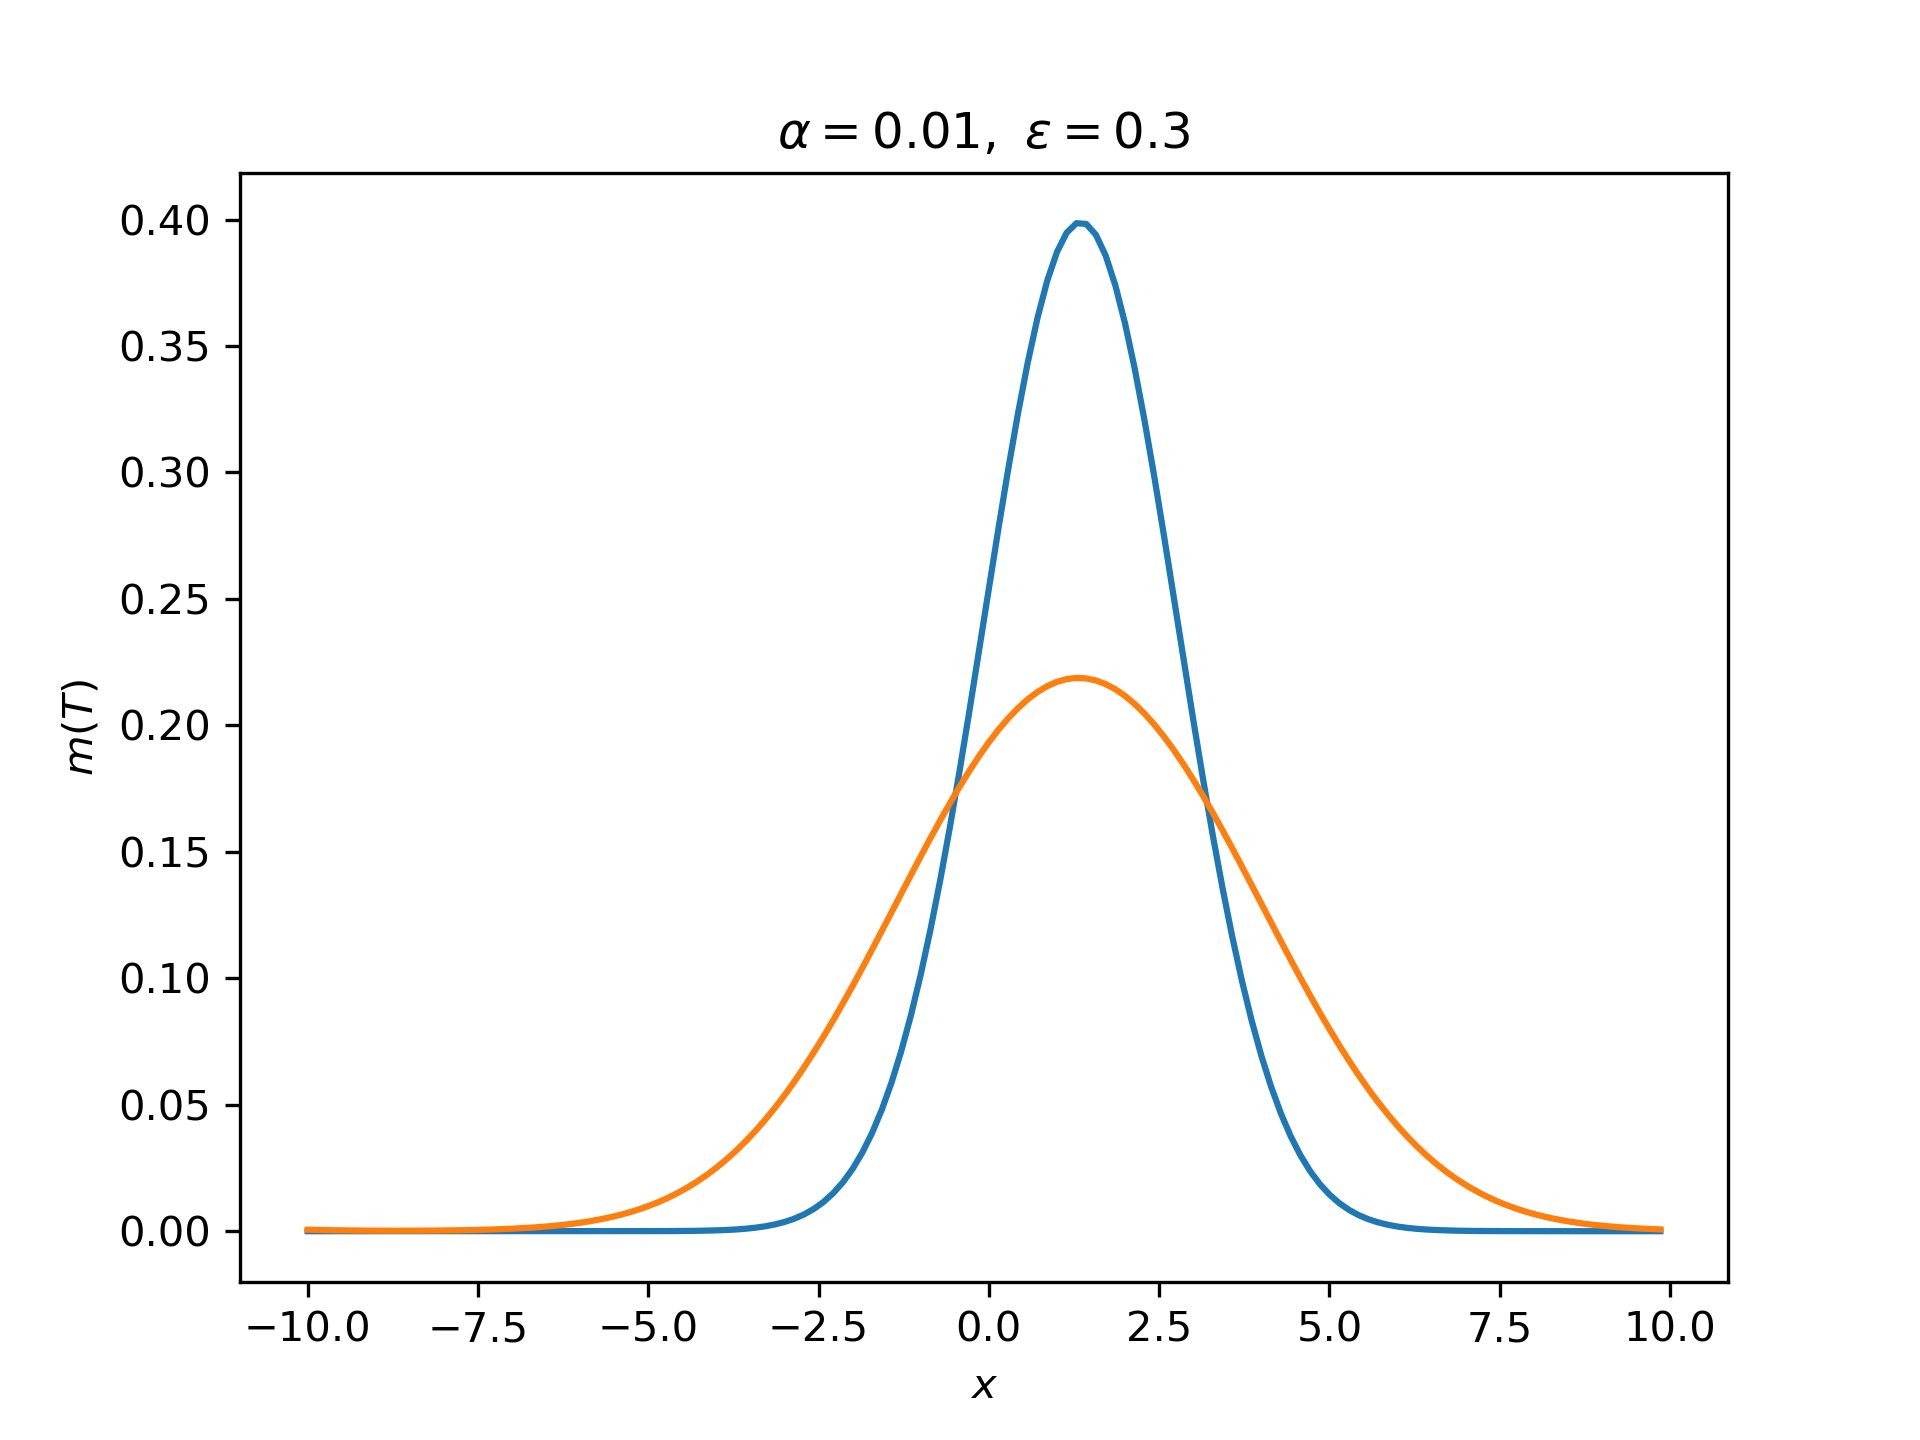
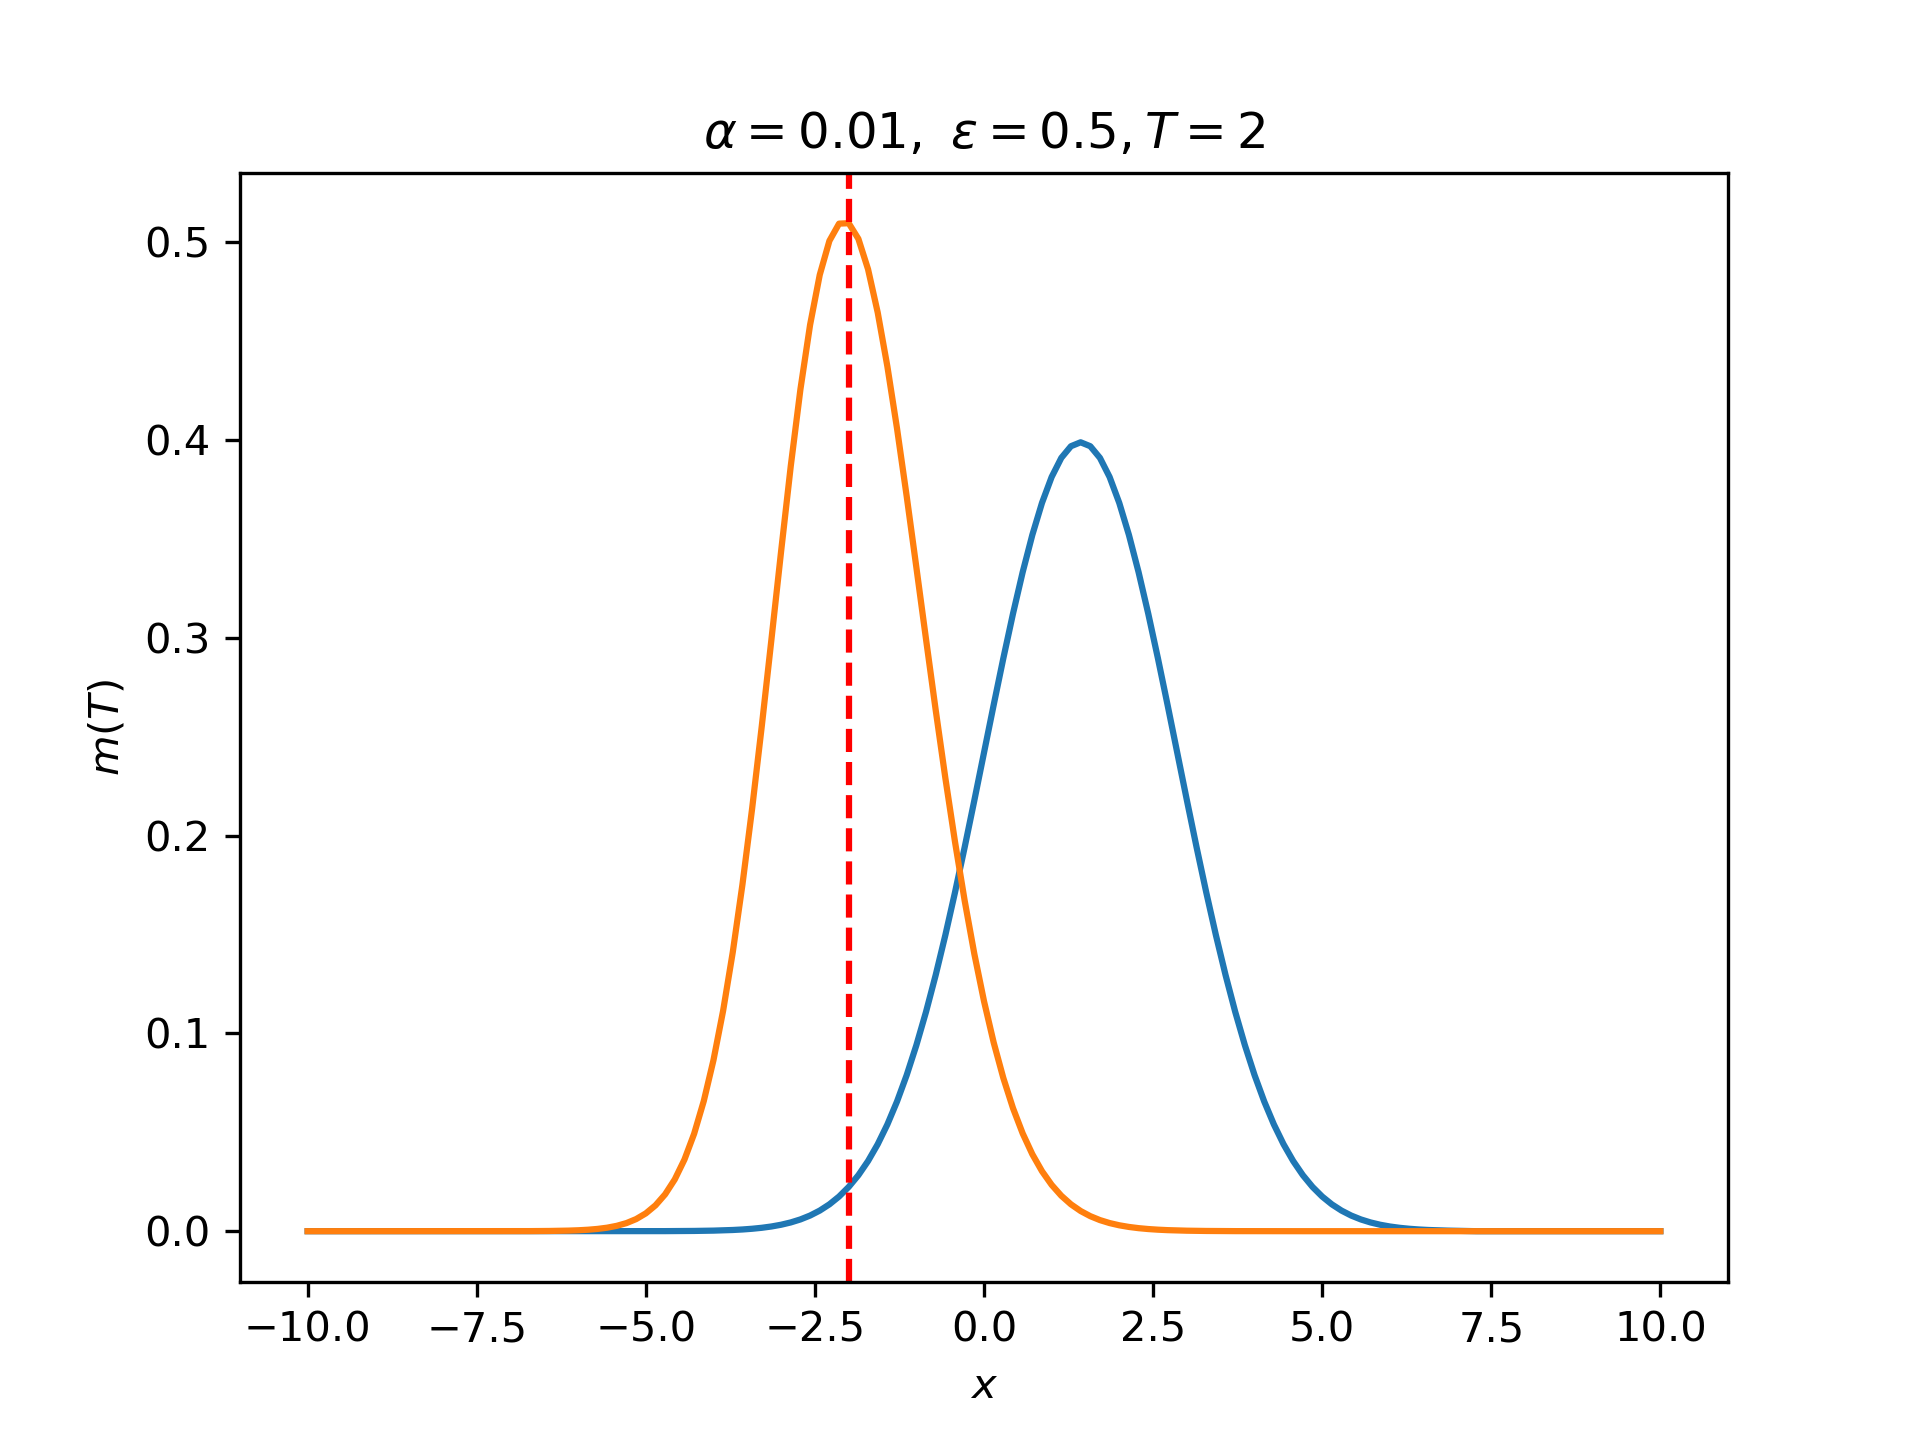
changes

diff --git a/experiments/two_populaional.py b/experiments/two_populaional.py
@@ -22,7 +22,7 @@ class TwoPopulationMFG(object):
         self.sigmas = sigmas
         self.lambdas = lambdas
         self.dt = T / Nt
-        self.dx = (xr - xl) / N
+        self.dx = (xr - xl) / (N - 1)
         self.x_grid = jnp.linspace(xl, xr, N)
         self.t_grid = jnp.linspace(0, T, Nt)
         self.eps = eps
@@ -33,16 +33,17 @@ class TwoPopulationMFG(object):
         if population_index == 0:
             midpoint = -1
             sigma_mu = 1
-            mu = truncnorm.pdf(x, a=a, b=b, loc=midpoint, scale=sigma_mu)
+            b1 = (a - midpoint)/sigma_mu
+            b2 = (b - midpoint)/sigma_mu
+            mu = truncnorm.pdf(x, a=b1, b=b2, loc=midpoint, scale=sigma_mu)
 
-            # return mu / jnp.sum(mu * self.h)
             return mu
         elif population_index == 1:
             midpoint = 1
             sigma_mu = 1
-            mu = truncnorm.pdf(x, a=a, b=b, loc=midpoint, scale=sigma_mu)
-
-            # return mu / jnp.sum(mu * self.h)
+            b1 = (a - midpoint) / sigma_mu
+            b2 = (b - midpoint) / sigma_mu
+            mu = truncnorm.pdf(x, a=b1, b=b2, loc=midpoint, scale=sigma_mu)
             return mu
 
     def uT(self, x, population_index):
@@ -93,14 +94,10 @@ class TwoPopulationMFG(object):
     def wasserstein_1(self, x, y):
         x = jnp.maximum(x, 0)
         y = jnp.maximum(y, 0)
-        x = x / jnp.sum(x)
-        y = y / jnp.sum(y)
 
-        # Compute the cumulative distribution functions
         cdf_x = jnp.cumsum(x) * self.h
         cdf_y = jnp.cumsum(y) * self.h
 
-        # Compute the Wasserstein-1 distance (L1 norm between the CDFs)
         w1_distance = jnp.sum(jnp.abs(cdf_x - cdf_y))
 
         return w1_distance
@@ -300,14 +297,14 @@ class TwoPopulationMFG(object):
 cfg = munch.munchify({
     'T' : 2,
     'Nt': 20,
-    'xl': -8,
-    'xr': 8,
-    'N' : 80,
-    'nu': 1,
+    'xl': -7,
+    'xr': 7,
+    'N' : 71,
+    'nu': 0.5,
     'alphas': [0.01, 0.01],
     'sigmas': [0.5, 0.5],
     'lambdas': [0.5, 0.5],
-    'eps': 1,
+    'eps': 0.7,
     'hjb_epoch': 100,
     'hjb_lr': 1,
     'epoch': 50,
@@ -329,7 +326,19 @@ U1, M1, U2, M2 = solver.solve(cfg.tol, cfg.epoch, cfg.hjb_lr, cfg.hjb_epoch)
 # Assuming cfg, U1, U2, M1, M2, x_d1, and x_d2 are already defined
 TT = np.linspace(0, cfg.T, cfg.Nt + 1)
 XX = np.linspace(-10, 10, cfg.N)
+max_idx1 = np.argmax(M1[-1, :]).item()
+max_init1= np.argmax(M1[0, :]).item()
+max_item1 = XX[max_idx1]
+max_item_init1= XX[max_init1]
+final_mean1 = round(max_item1, 2)
+init_mean1 = round(max_item_init1, 2)
 
+max_idx2 = np.argmax(M2[-1, :]).item()
+max_init2= np.argmax(M2[0, :]).item()
+max_item2 = XX[max_idx2]
+max_item_init2= XX[max_init2]
+final_mean2 = round(max_item2, 2)
+init_mean2 = round(max_item_init2, 2)
 # Final value function for both populations
 plt.figure()
 plt.plot(XX, U1[-1, :], label='U1(T)')
@@ -340,40 +349,24 @@ plt.ylabel('u(T)')
 plt.legend()
 plt.show()
 
-# Final distribution for both populations with updated legends
-# plt.figure()
-# plt.plot(XX, M1[15, :], label='Pop. 1 intermediate')  # More descriptive name for M1(T)
-# plt.plot(XX, M2[15, :], label='Pop. 2 intermediate')  # More descriptive name for M2(T)
-#
-# plt.axvline(x=x_d1, color='Blue', linestyle='--', linewidth=1, label=r'Desired Opinion $x_{d1}=$' + f'{x_d1}')  # LaTeX for subscript
-# plt.axvline(x=x_d2, color='Red', linestyle='--', linewidth=1, label=r'Desired Opinion $x_{d2}=$' + f'{x_d2}')  # LaTeX for subscript
-# plt.xlabel('x')
-# plt.ylabel('m(T)')
-# plt.title(r"$\alpha=" +f"{cfg.alphas}" +r",\ \varepsilon=" +f"{cfg.eps}$")
-# plt.legend(loc='upper left')  # Display the legend with subscript notation
-# plt.savefig('inter_Distribution.png', format='png', dpi=300)
-# plt.show()
-
-# Final distribution for both populations with updated legends
-plt.figure()
-plt.plot(XX, M1[0, :], label=f'Mean: {str(round(XX[np.argmax(M1[0, :])], 2))}')  # More descriptive name for M1(T)
-plt.plot(XX, M2[0, :], label=f'Mean: {str(round(XX[np.argmax(M2[0, :])], 2))}')  # More descriptive name for M2(T)
+plt.plot(XX, M1[0, :], label=f'Mean: {round(float(init_mean1))}')  # More descriptive name for M1(T)
+plt.plot(XX, M2[0, :], label=f'Mean: {round(float(init_mean2))}')  # More descriptive name for M2(T)
 plt.xlabel('x')
 plt.ylabel('m(T)')
-plt.title(r"$\alpha=" +f"{cfg.alphas}" +r",\ \varepsilon=" +f"{cfg.eps}$")
+plt.title(r"$\alpha=" +f"{cfg.alphas}" +r",\ \varepsilon=" +f"{cfg.eps}, T={cfg.T}$")
 plt.legend(loc='upper left')  # Display the legend with subscript notation
 plt.savefig('Initial_Distribution.png', format='png', dpi=300)
 plt.show()
 
 # Final distribution for both populations with updated legends
 plt.figure()
-plt.plot(XX, M1[-1, :], label=f'Mean: {str(round(XX[np.argmax(M1[-1, :])], 2))}')  # More descriptive name for M1(T)
-plt.plot(XX, M2[-1, :], label=f'Mean: {str(round(XX[np.argmax(M2[-1, :])], 2))}')  # More descriptive name for M2(T)
+plt.plot(XX, M1[-1, :], label=f'Mean: {round(float(final_mean1), 2)}')  # More descriptive name for M1(T)
+plt.plot(XX, M2[-1, :], label=f'Mean: {round(float(final_mean1), 2)}')  # More descriptive name for M2(T)
 # plt.axvline(x=x_d1, color='Blue', linestyle='--', linewidth=1, label=r'Desired Opinion $x_{d1}=$' + f'{x_d1}')  # LaTeX for subscript
 # plt.axvline(x=x_d2, color='Red', linestyle='--', linewidth=1, label=r'Desired Opinion $x_{d2}=$' + f'{x_d2}')  # LaTeX for subscript
 plt.xlabel('x')
 plt.ylabel('m(T) final')
-plt.title(r"$\alpha=" +f"{cfg.alphas}" +r",\ \varepsilon=" +f"{cfg.eps}$")
+plt.title(r"$\alpha=" +f"{cfg.alphas}" +r",\ \varepsilon=" +f"{cfg.eps}, T={cfg.T}$")
 plt.legend(loc='upper left')  # Display the legend with subscript notation
 plt.savefig('Final_Distribution.png', format='png', dpi=300)
 plt.show()

diff --git a/experiments/one_populational.py b/experiments/one_populational.py
@@ -1,6 +1,7 @@
+import jax
 from jax import jacfwd, jit
 import jax.numpy as jnp
-from jax import vmap
+from jax import vmap, lax
 from jax.scipy.stats import norm, truncnorm
 import numpy as np
 import matplotlib.pyplot as plt
@@ -52,16 +53,22 @@ class OnePopulationalMFG(object):
         self.nu = nu
         self.alpha = alpha
         self.X = jnp.linspace(xl, xr, N)
-        self.h = (xr - xl) / N
+        self.h = (xr - xl) / (N-1)
         self.eps = eps
 
-    def m0(self, x):
-        #return jnp.ones(x.shape) / (self.xr - self.xl) # we impose the uniform distribution on [-1, 1]
 
-        # midpoint = (self.xr + self.xl) / 2
-        midpoint = 1.0
-        sigma_mu = 1  # Define your standard deviation
-        return truncnorm.pdf(x, loc=midpoint, a=-5, b=5, scale=sigma_mu)
+    def m0(self, x):
+        a, b = -5, 5
+        arr = np.array(x)
+        filtered_x = np.where(arr>=a, arr, 0)
+        # x = np.where(filtered_x<=b, filtered_x, 0)
+        midpoint = 1
+        sigma_mu = 1
+        b1 = (a - midpoint) / sigma_mu
+        b2 = (b - midpoint) / sigma_mu
+        mu = truncnorm.pdf(x, a=b1, b=b2, loc=midpoint, scale=sigma_mu)
+
+        return mu
 
     def uT(self, x):
         return (x - x_d) ** 2  # we suppose that every agent prefers to zero opinion
@@ -199,10 +206,10 @@ class OnePopulationalMFG(object):
         M = M.at[1:, :].set(Mmtx)
 
         # compute the values of m at time 0 and the values of u at time T
-        M0 = vmap(self.m0)(self.X)
+        M0 = self.m0(self.X)
         UT = vmap(self.uT)(self.X)
 
-        # U = U.at[self.Nt, :].set(UT)
+        U = U.at[self.Nt, :].set(UT)
         M = M.at[0, :].set(M0)
         return U, M
 
@@ -264,13 +271,13 @@ class OnePopulationalMFG(object):
 
 cfg = munch.munchify({
     'T' : 2,
-    'Nt': 25,
+    'Nt': 20,
     'xl': -7,
     'xr': 7,
-    'N' : 140,
+    'N' : 141,
     'nu': 0.5,
     'alpha': 0.01,
-    'eps': 0.2,
+    'eps': 0.5,
     'hjb_epoch': 100,
     'hjb_lr': 1,
     'epoch': 100,
@@ -288,11 +295,15 @@ if  not (2* cfg.nu * dt)<= dx**2:
     TT, XX = jnp.meshgrid(TT, XX)
 
     U, M = solver.solve(cfg.tol, cfg.epoch, cfg.hjb_lr, cfg.hjb_epoch)
-    final_mean = round(XX[np.argmax(M[-1, :]),0].item(), 2)
+    max_idx = np.argmax(M[-1, :]).item()
+    max_init = np.argmax(M[0, :]).item()
+    XX = jnp.linspace(-10, 10, cfg.N)
+    max_item = XX[max_idx]
+    max_item_init = XX[max_init]
+    final_mean = round(max_item, 2)
+    init_mean = round(max_item_init, 2)
 
     TT = jnp.linspace(0, cfg.T, cfg.Nt + 1)
-    XX = jnp.linspace(-10, 10, cfg.N)
-
     # Plot for U[-1, :]
     fig = plt.figure()
     plt.plot(XX, U[-1, :])
@@ -300,37 +311,14 @@ if  not (2* cfg.nu * dt)<= dx**2:
     plt.ylabel(r"$u(T)$")
     plt.title("Final Value Function $u(T)$")
 
-    # Plot for M[-1, :] with a vertical line at x_d
     fig = plt.figure()
-    plt.plot(XX, M[0, :], label=r"Initial mean: 1.0")
-    plt.plot(XX, M[-1, :], label=f"Final mean: {final_mean}")
-    # plt.axvline(x=x_d, color='r', linestyle='--',)
+    plt.plot(XX, M[0, :], label=f"Initial mean: {round(float(init_mean), 2)}")
+    plt.plot(XX, M[-1, :], label=f"Final mean: {round(float(final_mean), 2)}")
+    plt.axvline(x=x_d, color='r', linestyle='--',)
 
     plt.xlabel(r"$x$")
     plt.ylabel(r"$m(T)$")
-    plt.title(r"$\alpha=" +f"{cfg.alpha}" +r",\ \varepsilon=" +f"{cfg.eps}$")
+    plt.title(r"$\alpha=" + f"{cfg.alpha}" + r",\ \varepsilon=" + f"{cfg.eps}, T={cfg.T}$")
     plt.savefig("one_populational.png", dpi=300)
     plt.legend()
     plt.show()
-
-# # 3D surface plot for U
-# fig = plt.figure()
-# ax = fig.add_subplot(111, projection='3d')
-# surf = ax.plot_surface(TT.T, XX.T, U, cmap='viridis')
-# fig.colorbar(surf, label=r"$u$", pad=0.1)
-# ax.set_title("Surface Plot of $u$")
-# ax.set_xlabel(r"$t$")
-# ax.set_ylabel(r"$x$")
-# ax.set_zlabel(r"$u$")
-
-# 3D surface plot for M
-# fig = plt.figure()
-# ax = fig.add_subplot(111, projection='3d')
-# surf = ax.plot_surface(TT.T, XX.T, M, cmap='viridis')
-# fig.colorbar(surf, label=r"$m$", pad=0.1)
-# ax.set_title("Surface Plot of $m$")
-# ax.set_xlabel(r"$t$")
-# ax.set_ylabel(r"$x$")
-# ax.set_zlabel(r"$m$")
-
-# plt.show()

diff --git a/experiments/three_populational.py b/experiments/three_populational.py
@@ -6,8 +6,8 @@ import munch
 import os
 import numpy as np
 
-x_d1 = -3
-x_d3 = 3
+x_d1 = -2
+x_d3 = 2
 
 os.environ["JAX_TRACEBACK_FILTERING"]="off"
 # os.environ["XLA_PYTHON_CLIENT_ALLOCATOR"]="platform"
